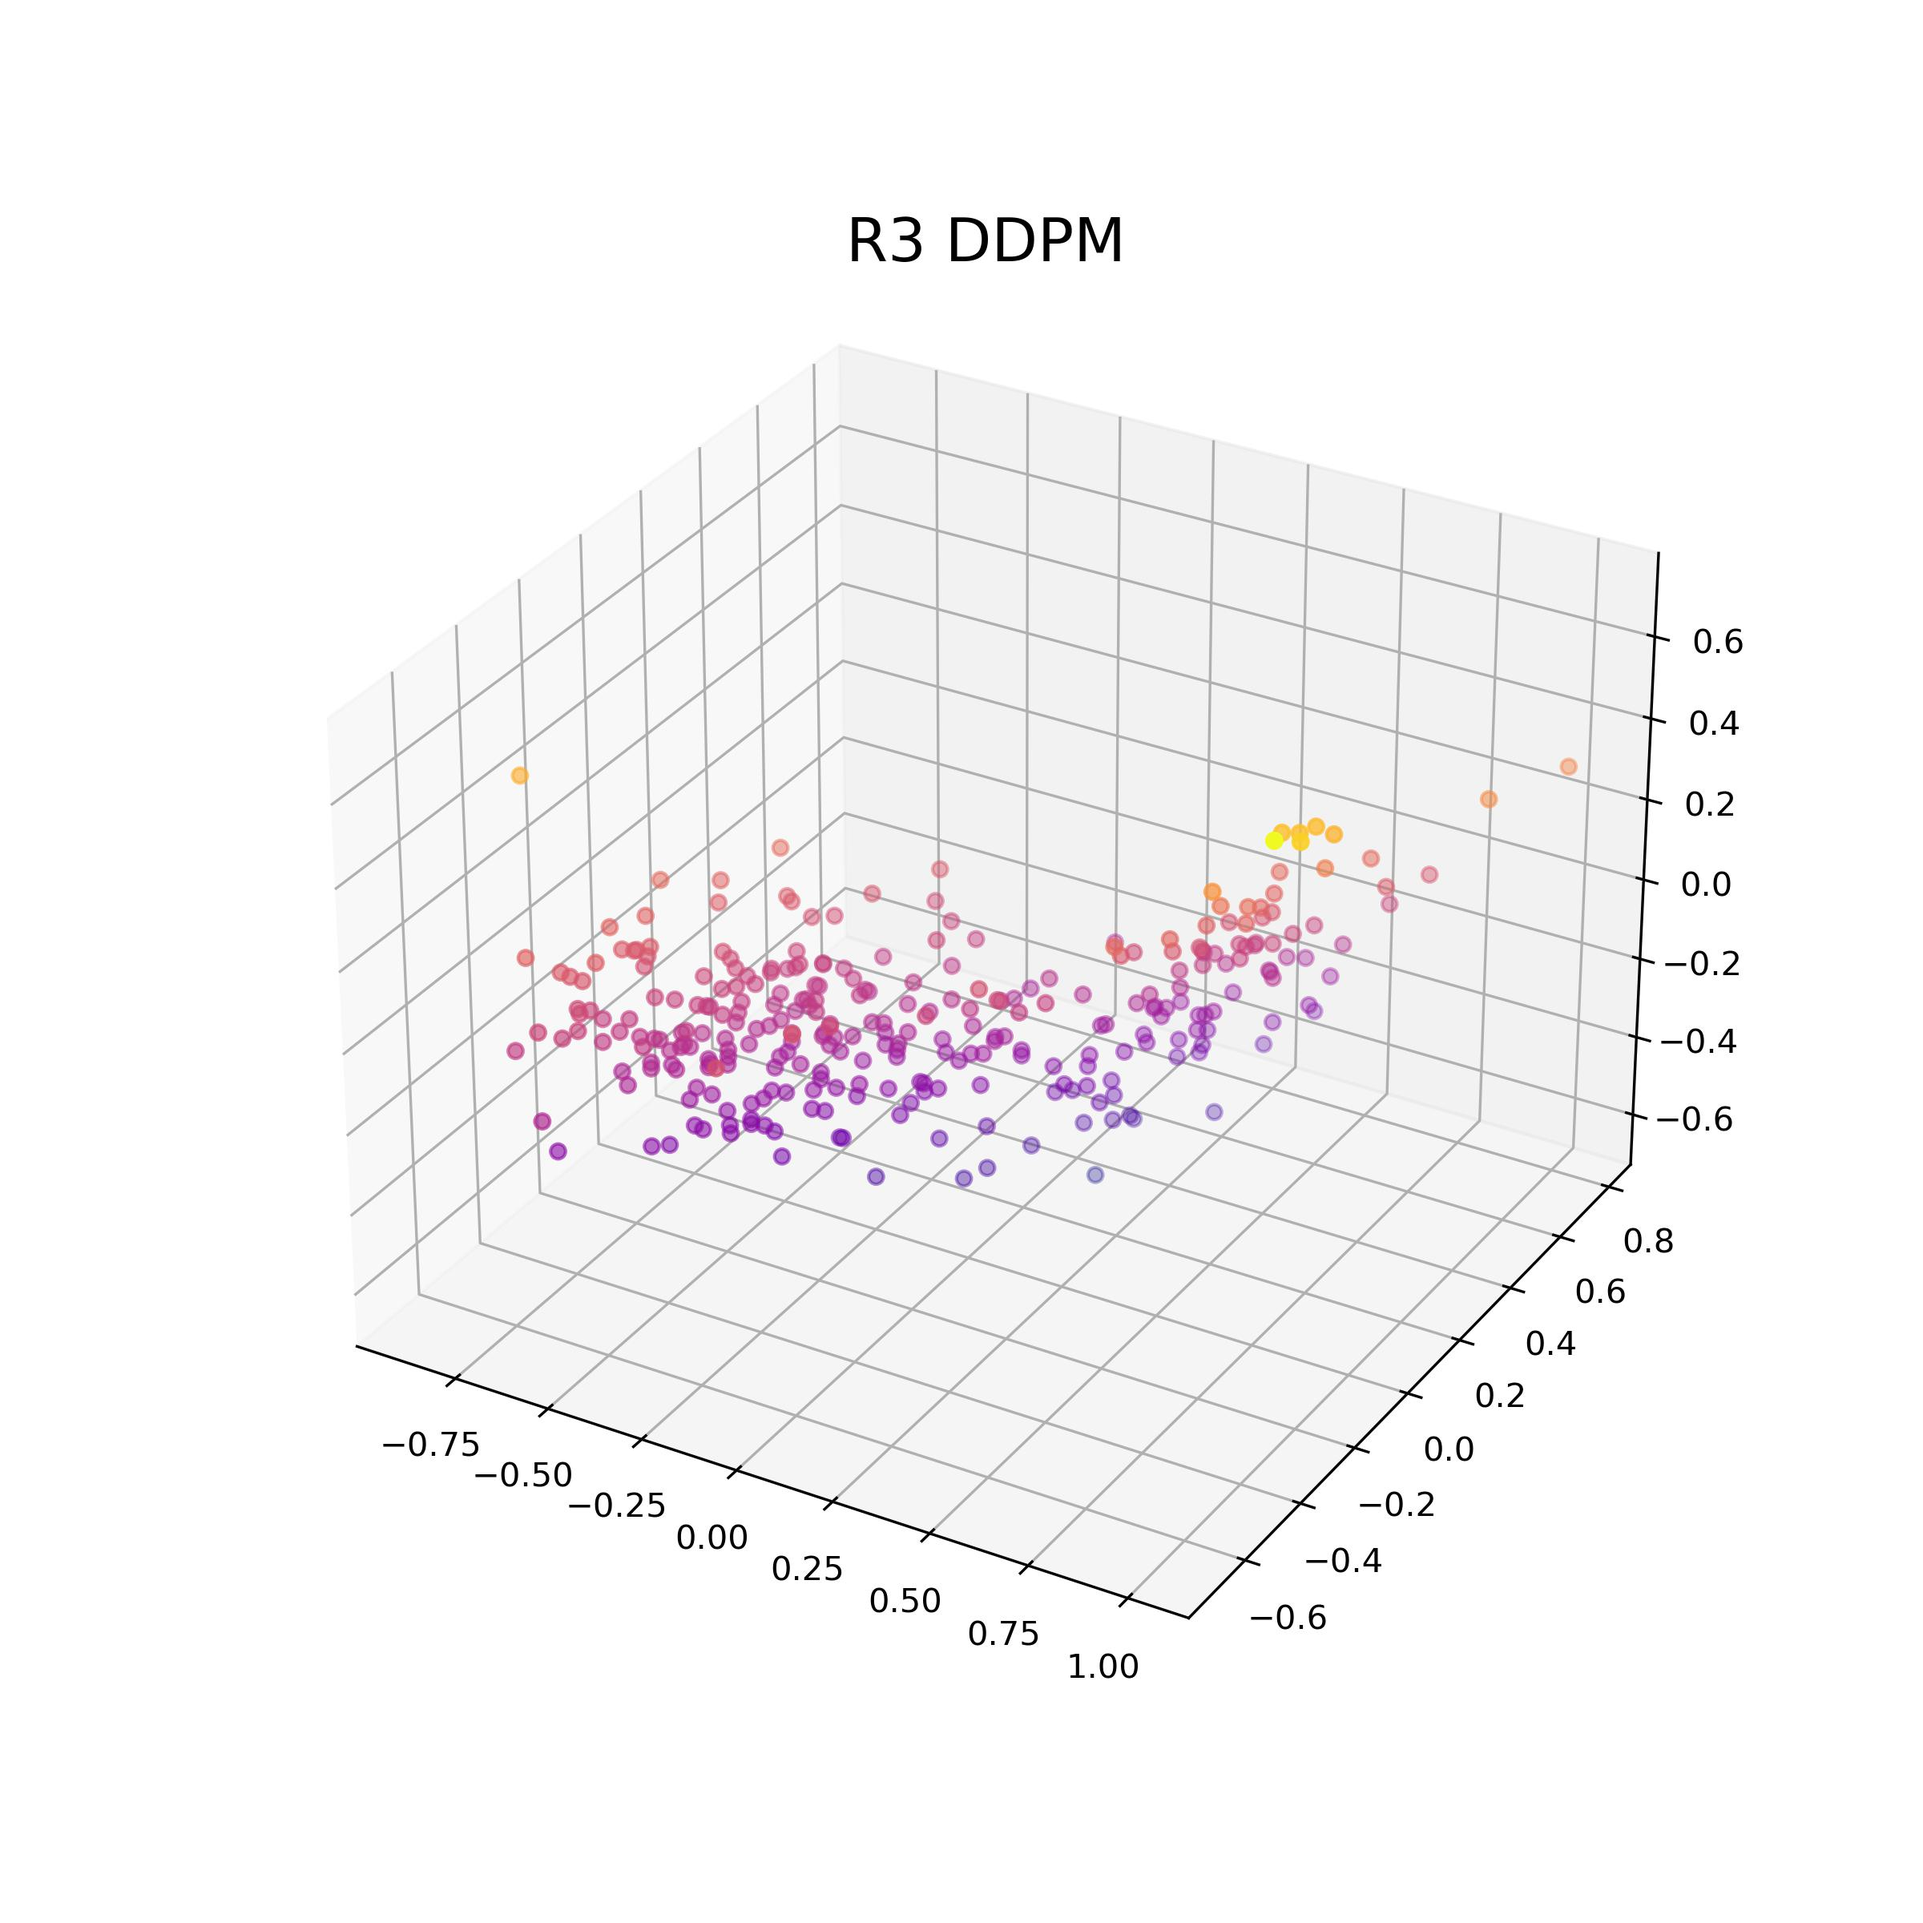
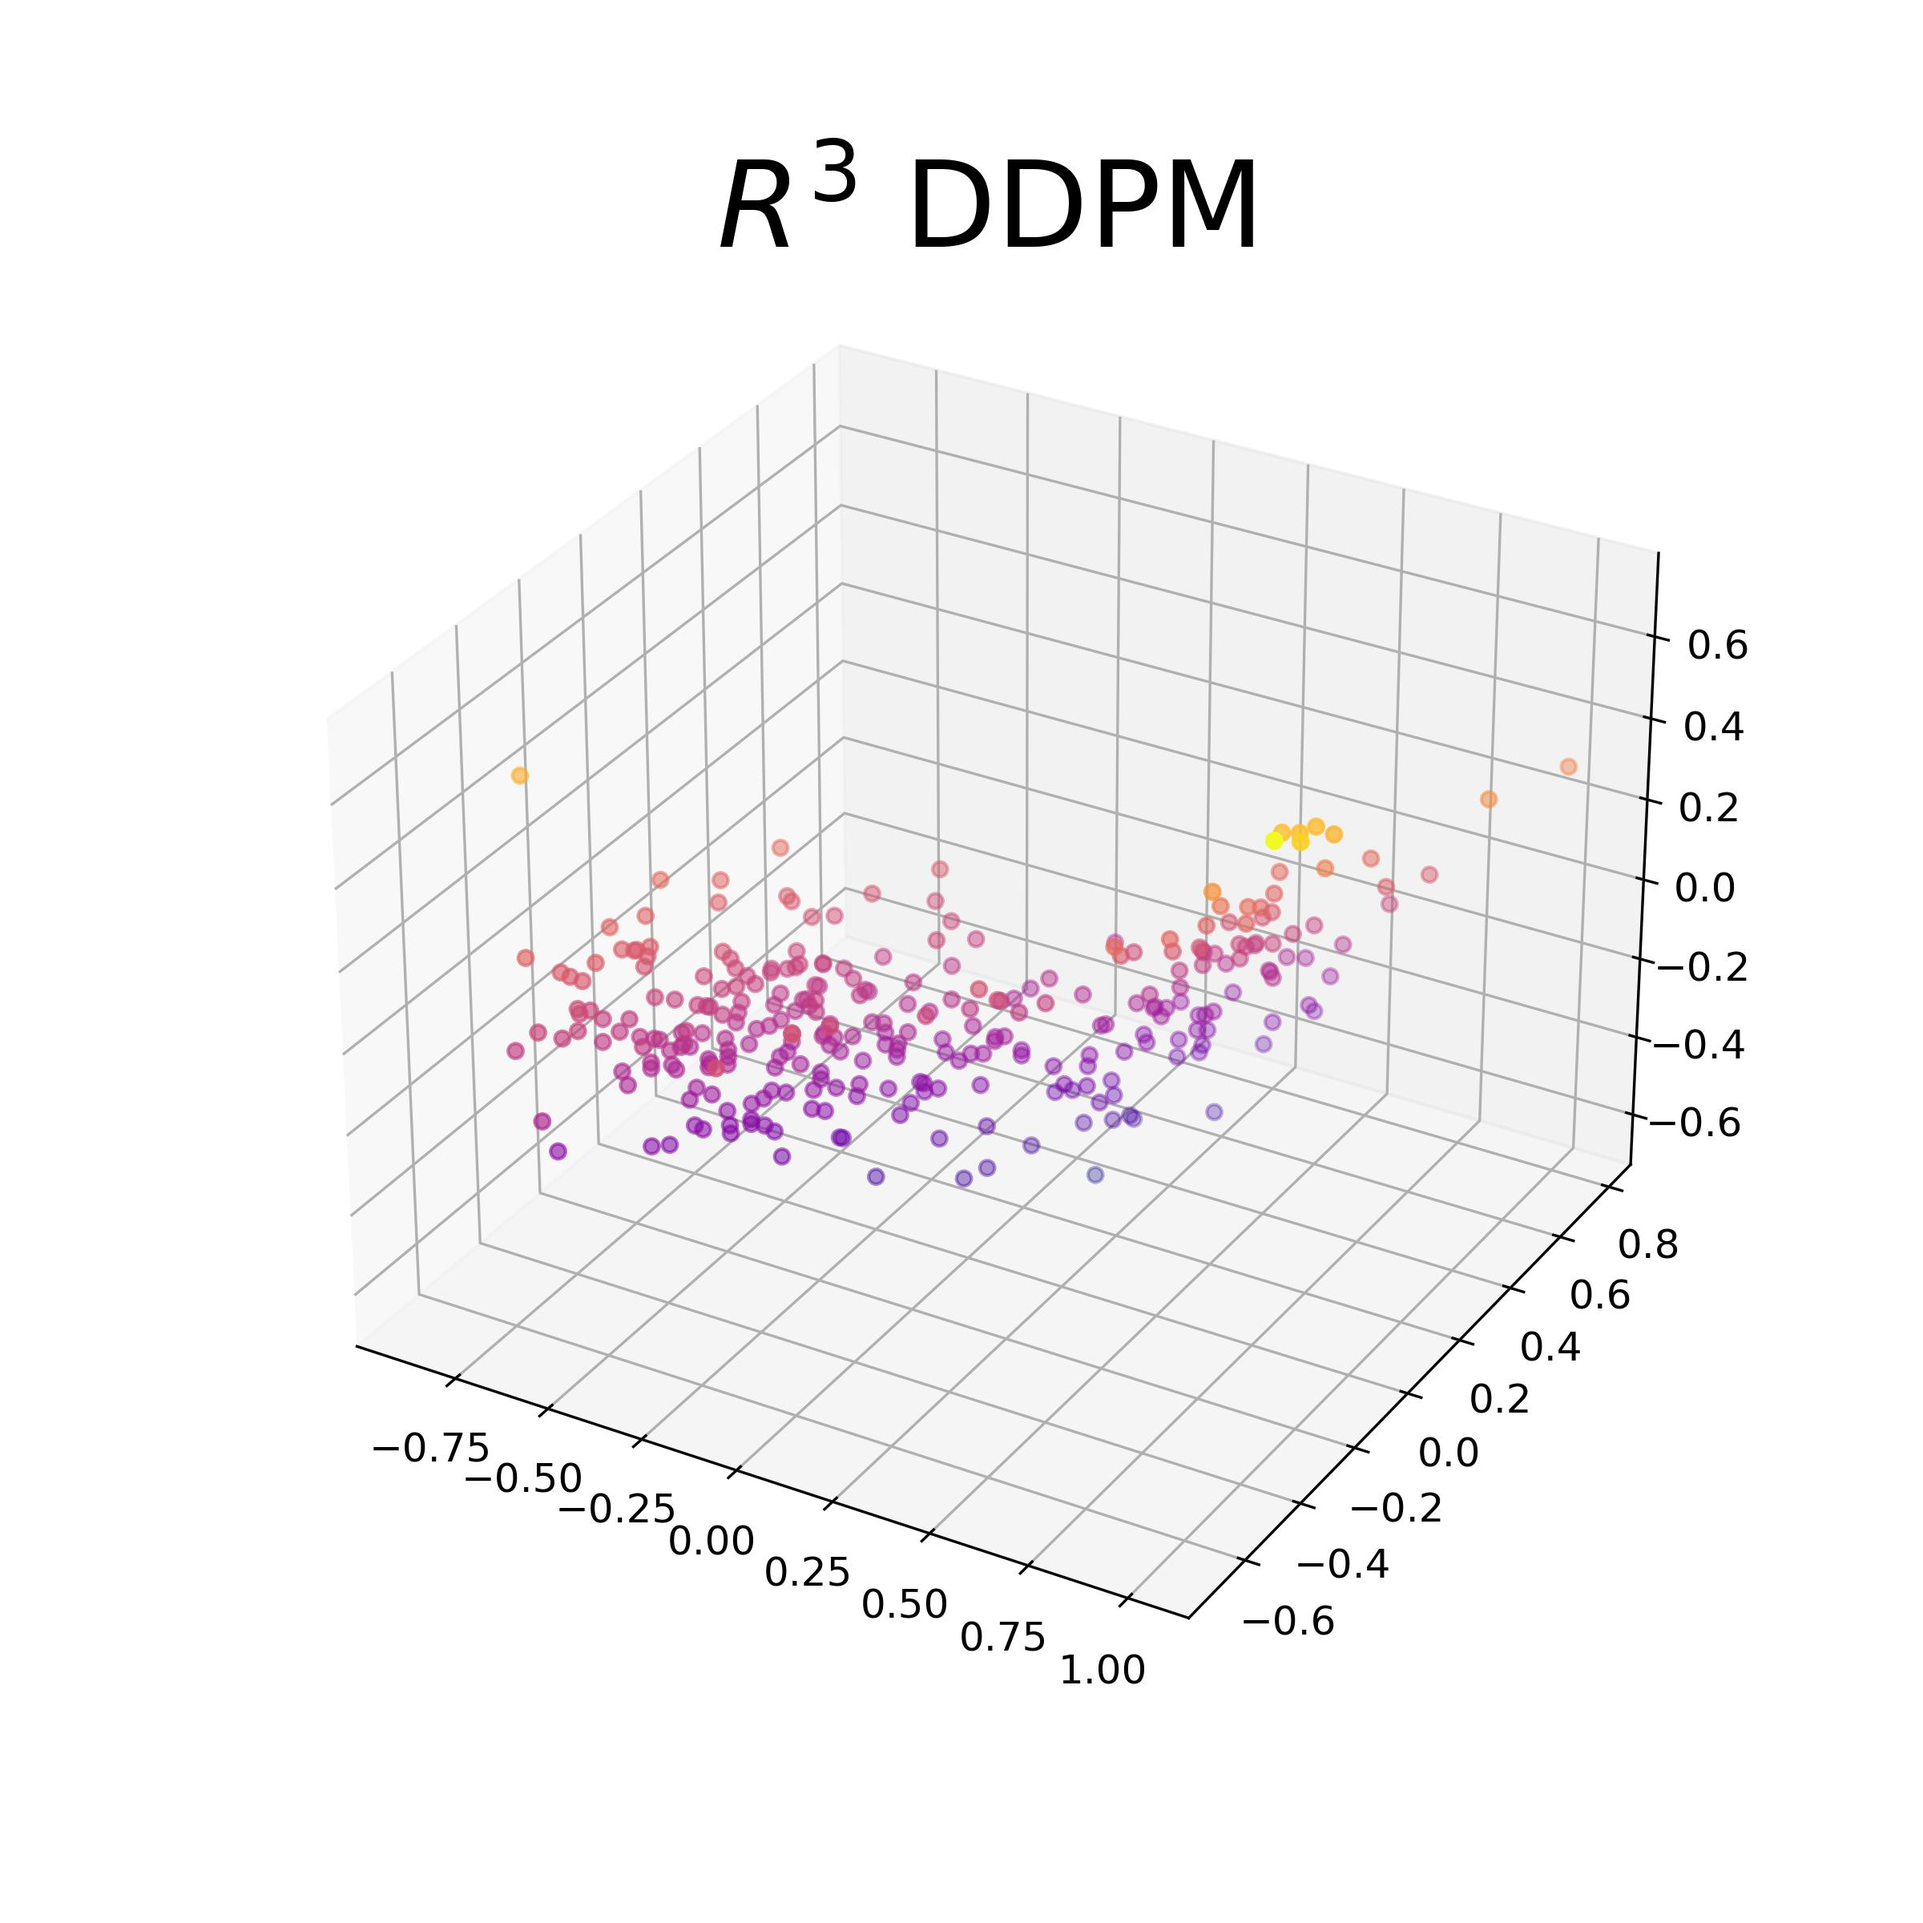
math all finished

diff --git a/mathematics/r3_experiments/r3_score_matching.py b/mathematics/r3_experiments/r3_score_matching.py
@@ -27,10 +27,10 @@ print(device)
 
 
 # Load toy dataset
-dataset_name = "lorenz.npy"
+dataset_name = "sine.npy"
 data = np.load(f'data/{dataset_name}',allow_pickle=True)
 print('size of toy dataset: ', len(data))
-fig = plot_r3(data, title="Target Distribution")
+fig = plot_r3(data, title=r"Target $R^3$ Distribution A")
 plt.savefig(f"{savedir}/{dataset_name.split('.')[0]}.png", dpi=300)
 plt.show()
 
@@ -100,7 +100,7 @@ def main_loop(model, optimizer, run_idx=0, num_epochs=150, display=True):
             w1ds.append(w_d1)
 
         if display and (epoch % 100)==0:
-            plot_r3(final_traj, title='R3 Score Matching')
+            plot_r3(final_traj, title='$R^3$ Score Matching')
             plt.savefig(os.path.join(savedir, f"dataset_{dataset_name.split('.')[0]}_run{run_idx}_epoch{epoch}.jpg"))
             plt.show()
             print('wassterstein-1 distance:', w_d1)
@@ -134,7 +134,7 @@ Results for Multiple Runs
 '''
 w1ds_runs = []
 losses_runs = []
-num_runs = 3
+num_runs = 1
 for i in range(num_runs):
     print('doing run ', i)
     dim = 3  # network ouput is 3 dimensional (trans_vec matrix)

diff --git a/mathematics/r3_experiments/r3_flow_matching.py b/mathematics/r3_experiments/r3_flow_matching.py
@@ -31,7 +31,7 @@ print(device)
 dataset_name = "sine.npy"
 data = np.load(f'data/{dataset_name}',allow_pickle=True)
 print('size of toy dataset: ', len(data))
-fig = plot_r3(data, title="Target R3 Distribution B")
+fig = plot_r3(data, title=r"Target $R^3$ Distribution A")
 plt.savefig(f"{savedir}/{dataset_name.split('.')[0]}.png", dpi=300)
 plt.show()
 
@@ -107,7 +107,7 @@ def main_loop(model, optimizer, run_idx=0, num_epochs=150, display=True):
 
 
         if display and (epoch % 100)==0:
-            plot_r3(final_traj, title='R3 Flow Matching')
+            plot_r3(final_traj, title='$R^3$ Flow Matching')
             plt.savefig(os.path.join(savedir, f"dataset_{dataset_name.split('.')[0]}_run{run_idx}_epoch{epoch}.jpg"))
             plt.show()
             print('wassterstein-1 distance:', w_d1)
@@ -143,7 +143,7 @@ Results for Multiple Runs
 w1ds_runs = []
 w2ds_runs = []
 losses_runs = []
-num_runs = 3
+num_runs = 1
 for i in range(num_runs):
     print('doing run ', i)
     dim = 3  # network ouput is 3 dimensional (rot_vec matrix)

diff --git a/mathematics/r3_experiments/r3_ddpm.py b/mathematics/r3_experiments/r3_ddpm.py
@@ -27,7 +27,7 @@ n_timestep = r3_conf.n_timestep
 dataset_name = "sine.npy"
 data = np.load(f'data/{dataset_name}',allow_pickle=True)
 print('size of toy dataset: ', len(data))
-fig = plot_r3(data, title="Target Distribution")
+fig = plot_r3(data, title=r"Target $R^3$ Distribution A")
 plt.savefig(f"{savedir}/{dataset_name.split('.')[0]}.png", dpi=300)
 plt.show()
 
@@ -100,7 +100,7 @@ def main_loop(model, optimizer, run_idx=0, num_epochs=150, display=True):
             w1ds.append(w_d1)
 
         if display and (epoch % 100)==0:
-            plot_r3(final_traj, title='R3 DDPM')
+            plot_r3(final_traj, title=r'$R^3$ DDPM')
             plt.savefig(os.path.join(savedir, f"dataset_{dataset_name.split('.')[0]}_run{run_idx}_epoch{epoch}.jpg"))
             plt.show()
             print('wassterstein-1 distance:', w_d1)

diff --git a/mathematics/so3_experiments/so3_flow_matching.py b/mathematics/so3_experiments/so3_flow_matching.py
@@ -27,14 +27,14 @@ device = torch.device("cuda:0" if torch.cuda.is_available() else "cpu")
 print(device)
 
 root = "data"
-dataset_name = "spiral_group.npy"
+dataset_name = "bunny_group.npy"
 
 '''
 Load Dataset
 '''
 data = np.load(f'{root}/{dataset_name}')
 print('size of toy dataset: ', len(data))
-fig = plot_so3(data, adjust=True,title="Target Distribution")
+fig = plot_so3(data, adjust=True,title="Target SO(3) Distribution A")
 
 plt.savefig(f"{savedir}/{dataset_name.split('.')[0]}.png", dpi=300)
 plt.show()
@@ -148,7 +148,7 @@ Results for Multiple Runs
 w1ds_runs = []
 w2ds_runs = []
 losses_runs = []
-num_runs = 3
+num_runs = 1
 for i in range(num_runs):
     print('doing run ', i)
     dim = 9  # network ouput is 3 dimensional (rot_vec matrix)

diff --git a/mathematics/so3_experiments/so3_score_matching.py b/mathematics/so3_experiments/so3_score_matching.py
@@ -39,10 +39,10 @@ print(device)
 '''
 Load toy dataset
 '''
-dataset_name = "spiral_group.npy"
+dataset_name = "bunny_group.npy"
 data = np.load(f'data/{dataset_name}',allow_pickle=True)
 print('size of toy dataset: ', len(data))
-fig = plot_so3(data, adjust=True,title="Target Distribution")
+fig = plot_so3(data, adjust=True,title="Target SO(3) Distribution A")
 plt.savefig(f"{savedir}/{dataset_name.split('.')[0]}.png", dpi=300)
 plt.show()
 
@@ -169,7 +169,7 @@ Results for Multiple Runs
 w1ds_runs = []
 w2ds_runs = []
 losses_runs = []
-num_runs = 3
+num_runs = 1
 for i in range(num_runs):
     print('doing run ', i)
     dim = 3  # network ouput is 3 dimensional (rot_vec matrix)

diff --git a/mathematics/so3_experiments/so3_ddpm.py b/mathematics/so3_experiments/so3_ddpm.py
@@ -27,7 +27,7 @@ n_timestep = so3_conf.diffusion.n_timestep
 dataset_name = "bunny_group.npy"
 data = np.load(f'data/{dataset_name}',allow_pickle=True)
 print('size of toy dataset: ', len(data))
-fig = plot_so3(data, adjust=True,title="Target Distribution")
+fig = plot_so3(data, adjust=True,title="Target SO(3) Distribution A")
 plt.savefig(f"{savedir}/{dataset_name.split('.')[0]}.png", dpi=300)
 plt.show()
 
@@ -166,7 +166,7 @@ Results for Multiple Runs
 w1ds_runs = []
 w2ds_runs = []
 losses_runs = []
-num_runs = 3
+num_runs = 1
 for i in range(num_runs):
     print('doing run ', i)
     dim = 3  # network ouput is 3 dimensional (rot_vec matrix)

diff --git a/mathematics/r3_experiments/utils/plotting.py b/mathematics/r3_experiments/utils/plotting.py
@@ -69,8 +69,9 @@ def plot_scatter3D(xyz, xlim=(-1.0, 1.0), ylim=(-1.0, 1.0), zlim=(-1.0, 1.0), ad
     # ax.axes.set_xlim3d(xlim[0], xlim[1])
     # ax.axes.set_ylim3d(ylim[0], ylim[1])
     # ax.axes.set_zlim3d(zlim[0], zlim[1])
+    ax.tick_params(axis='both', which='major', labelsize=12)
     if title is not None:
-        ax.set_title(title, fontsize=18, y=1.05)
+        ax.set_title(title, fontsize=36, y=1.06)
     return fig
 
 

diff --git a/mathematics/so3_experiments/utils/plotting.py b/mathematics/so3_experiments/utils/plotting.py
@@ -69,8 +69,9 @@ def plot_scatter3D(xyz, xlim=(-1.0, 1.0), ylim=(-1.0, 1.0), zlim=(-1.0, 1.0), ad
     ax.axes.set_xlim3d(xlim[0], xlim[1])
     ax.axes.set_ylim3d(ylim[0], ylim[1])
     ax.axes.set_zlim3d(zlim[0], zlim[1])
+    ax.tick_params(axis='both', which='major', labelsize=12)
     if title is not None:
-        ax.set_title(title, fontsize=18, y=0.96)
+        ax.set_title(title, fontsize=36, y=1)
     return fig
 
 
